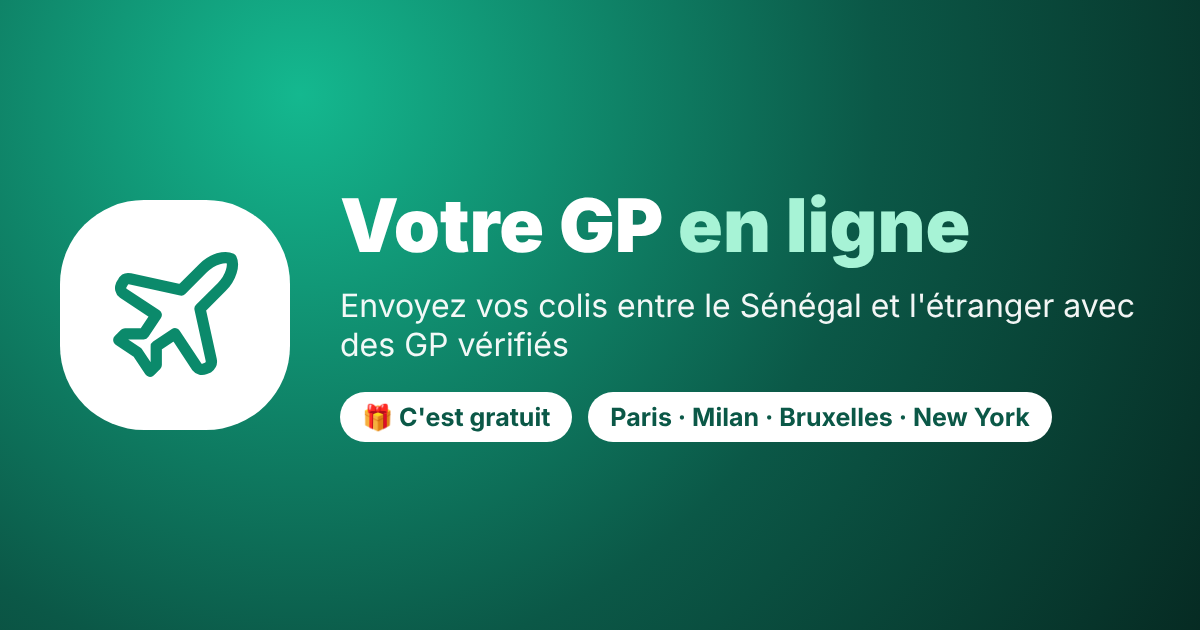
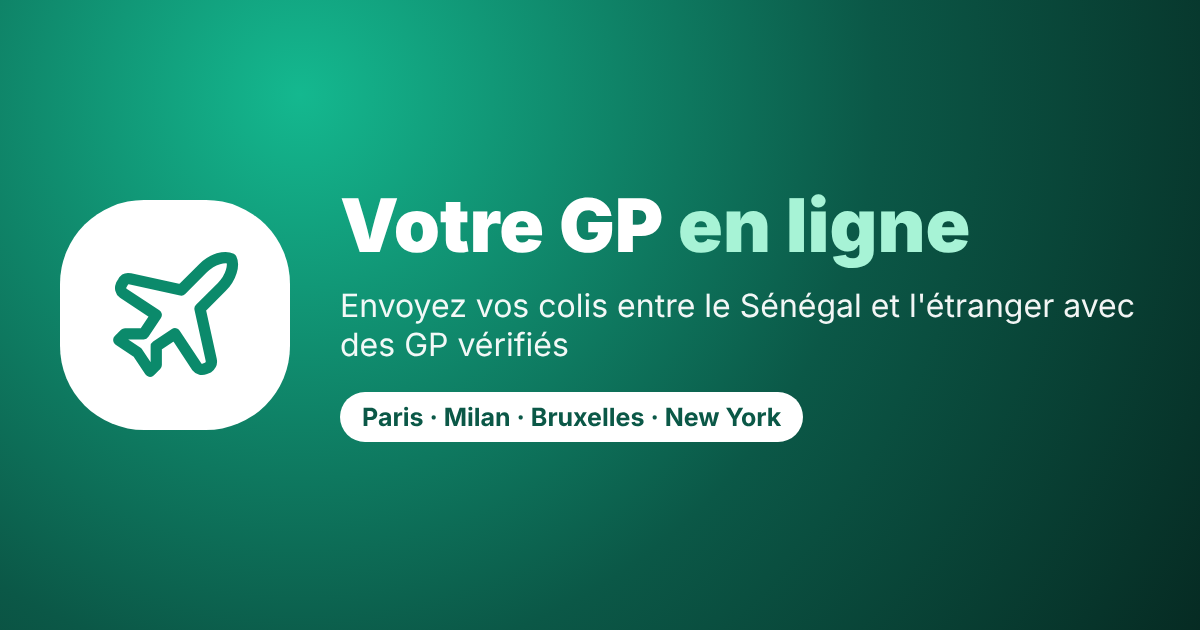
Livraisons : aperçu des liens sans mention de gratuité
Claude-Session: https://claude.ai/code/session_01WXcZKceo5TnMzNoCKmuu3S

Changed region(s): [[0.2775, 0.6032, 0.8942, 0.7238]]

diff --git a/livraisons/src/lib/site.ts b/livraisons/src/lib/site.ts
@@ -2,7 +2,7 @@
 export const SITE_NAME = "Sen Service Livraisons";
 export const SITE_SHORT_NAME = "Sen Service";
 export const SITE_DESCRIPTION =
-  "Votre GP en ligne : envoyez vos colis entre le Sénégal et l'étranger avec des GP vérifiés. Prix au kilo affiché, réservation en 1 minute, c'est gratuit.";
+  "Votre GP en ligne : envoyez vos colis entre le Sénégal et l'étranger avec des GP vérifiés. Prix au kilo affiché, réservation en 1 minute.";
 
 /** Adresse publique du site (PUBLIC_URL chez l'hébergeur, sinon l'adresse Railway actuelle). */
 export function siteUrl(): string {
